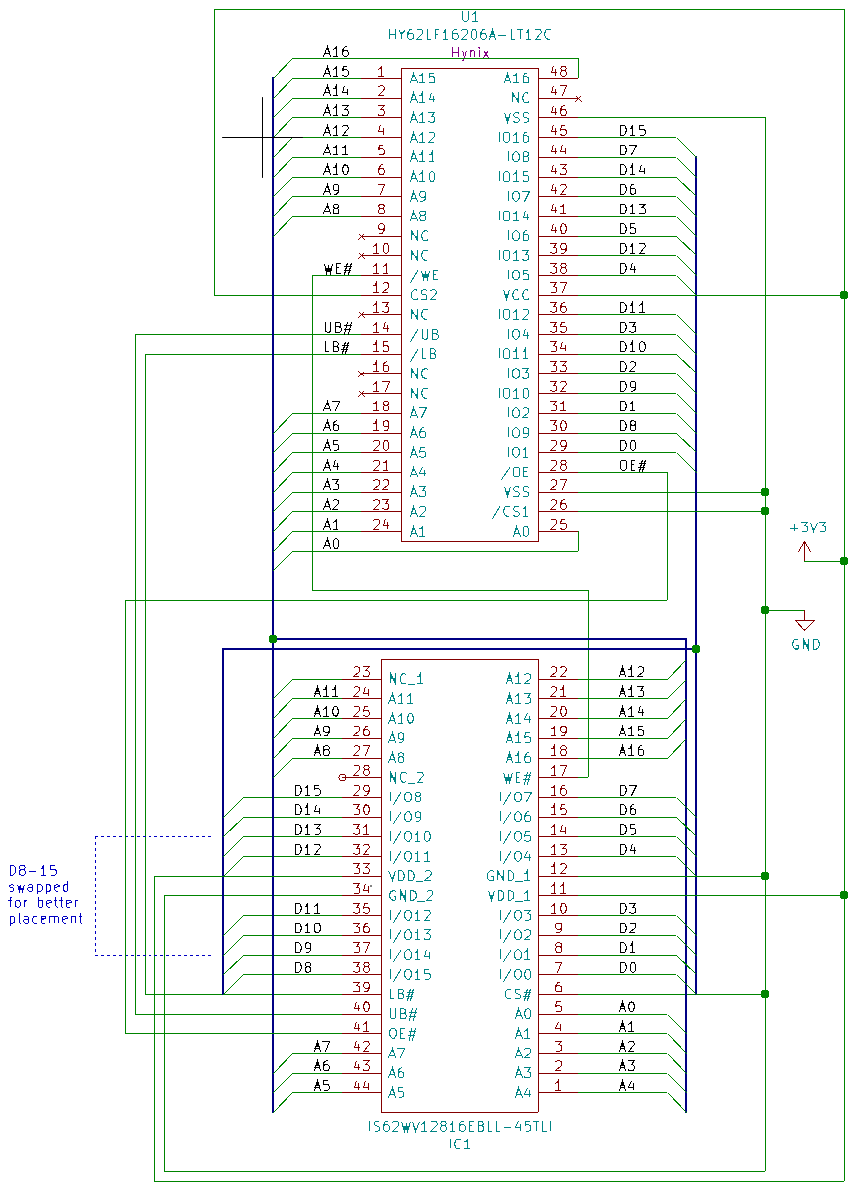
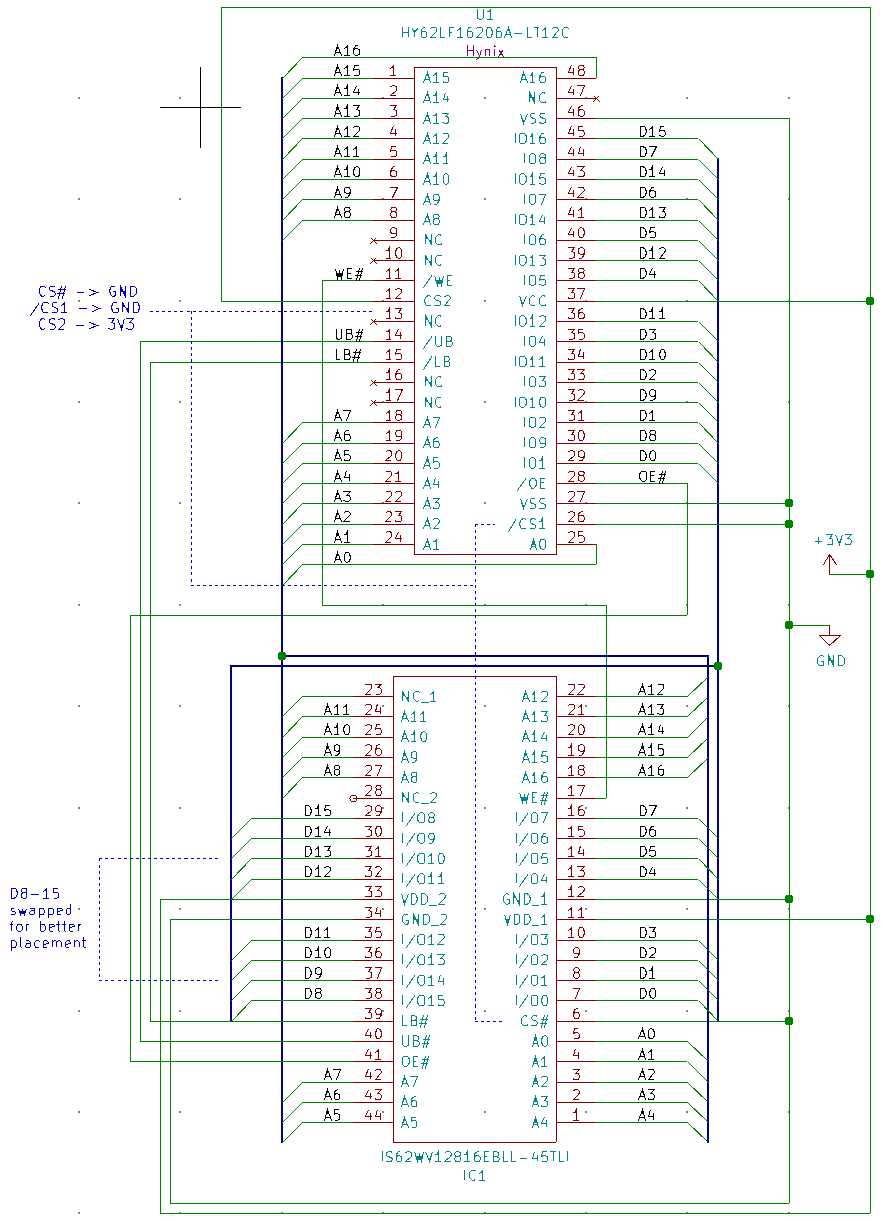
Update schematics and README

diff --git a/README.md b/README.md
@@ -30,7 +30,7 @@ Compatible SRAM chips for the board:
 
 | Model                                                                                                                    | min. access time | max. power draw | working |
 | ------------------------------------------------------------------------------------------------------------------------ | ---------------- | --------------- | ------- |
-| [IS62WV12816BLL-55TLI / -BLI](http://www.issi.com/WW/pdf/62WV12816ALL.pdf)                                               | 55ns             | ~25mA           | ?       |
+| [IS62WV12816BLL-55TLI / -55BLI](http://www.issi.com/WW/pdf/62WV12816ALL.pdf)                                             | 55ns             | ~25mA           | ?       |
 | [IS62WV12816EBLL-45TLI](http://www.issi.com/WW/pdf/62-65WV12816EALL-BLL.pdf)                                             | 45ns             | ~15mA           | ?       |
 | [CY62136FV30LL-45ZSXIT / -45ZSXI / -45ZSXA](https://www.cypress.com/file/43866/download)                                 | 45ns             | ~18mA           | ?       |
 | [CY62136ESL-45ZSXI](https://www.mouser.de/datasheet/2/100/001-48147_CY62136ESL_MoBL_R_2-Mbit_128_K_X_16_Stat-319203.pdf) | 45ns             | ~20mA           | ?       |
